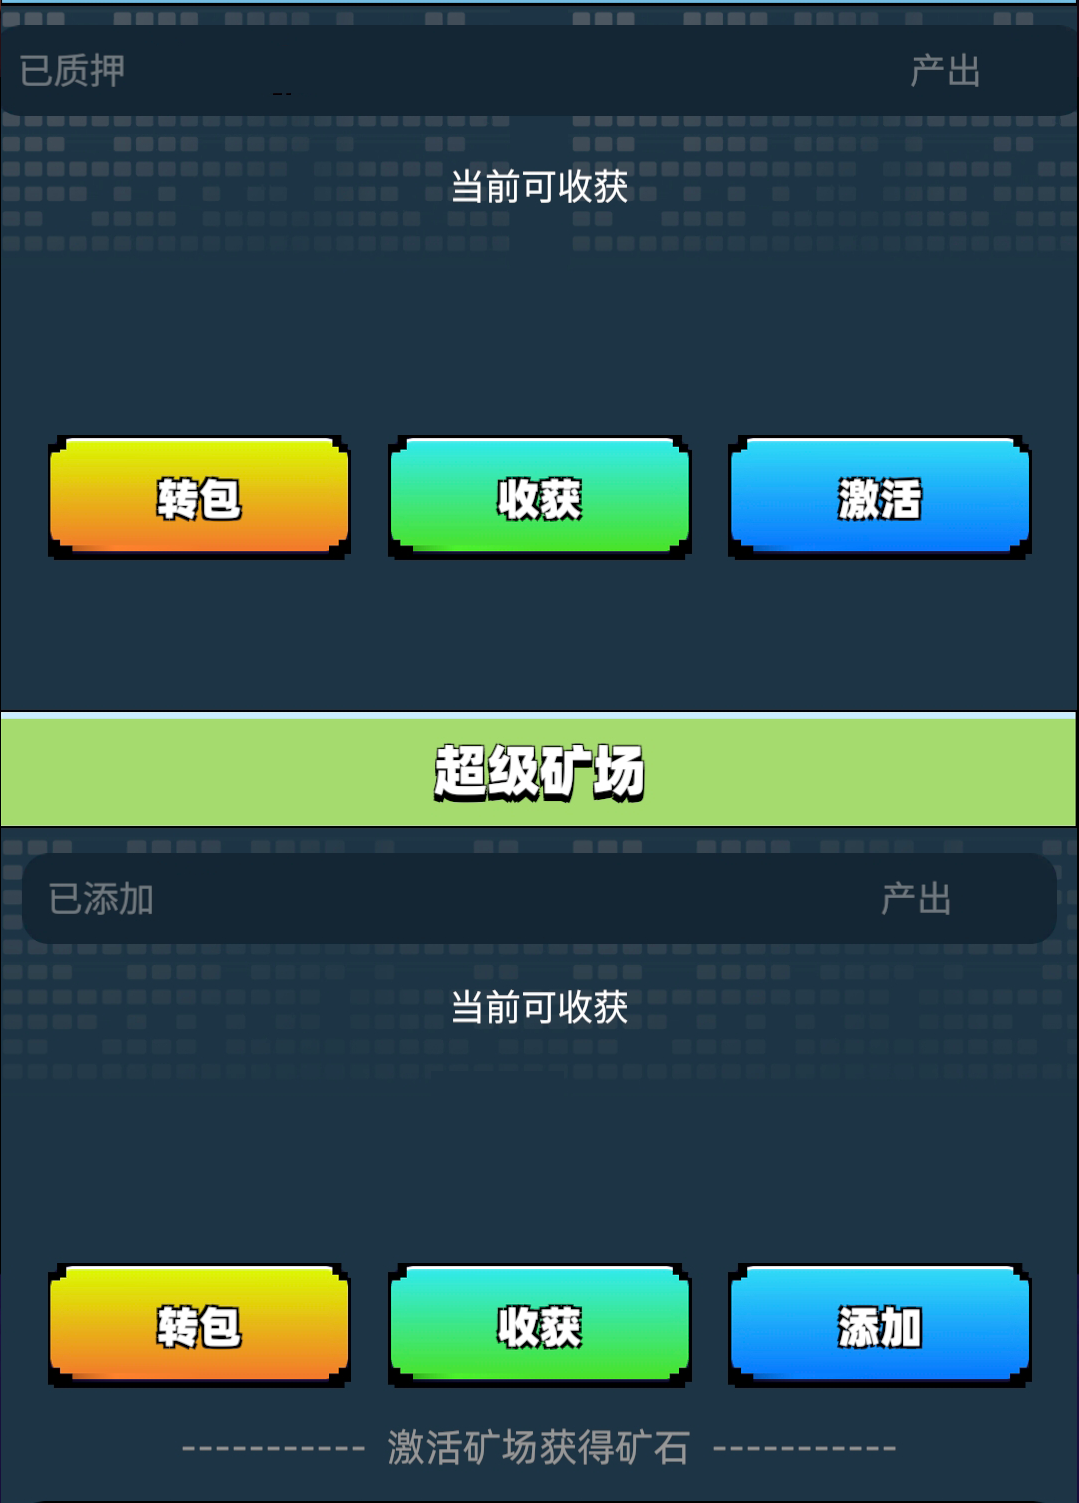
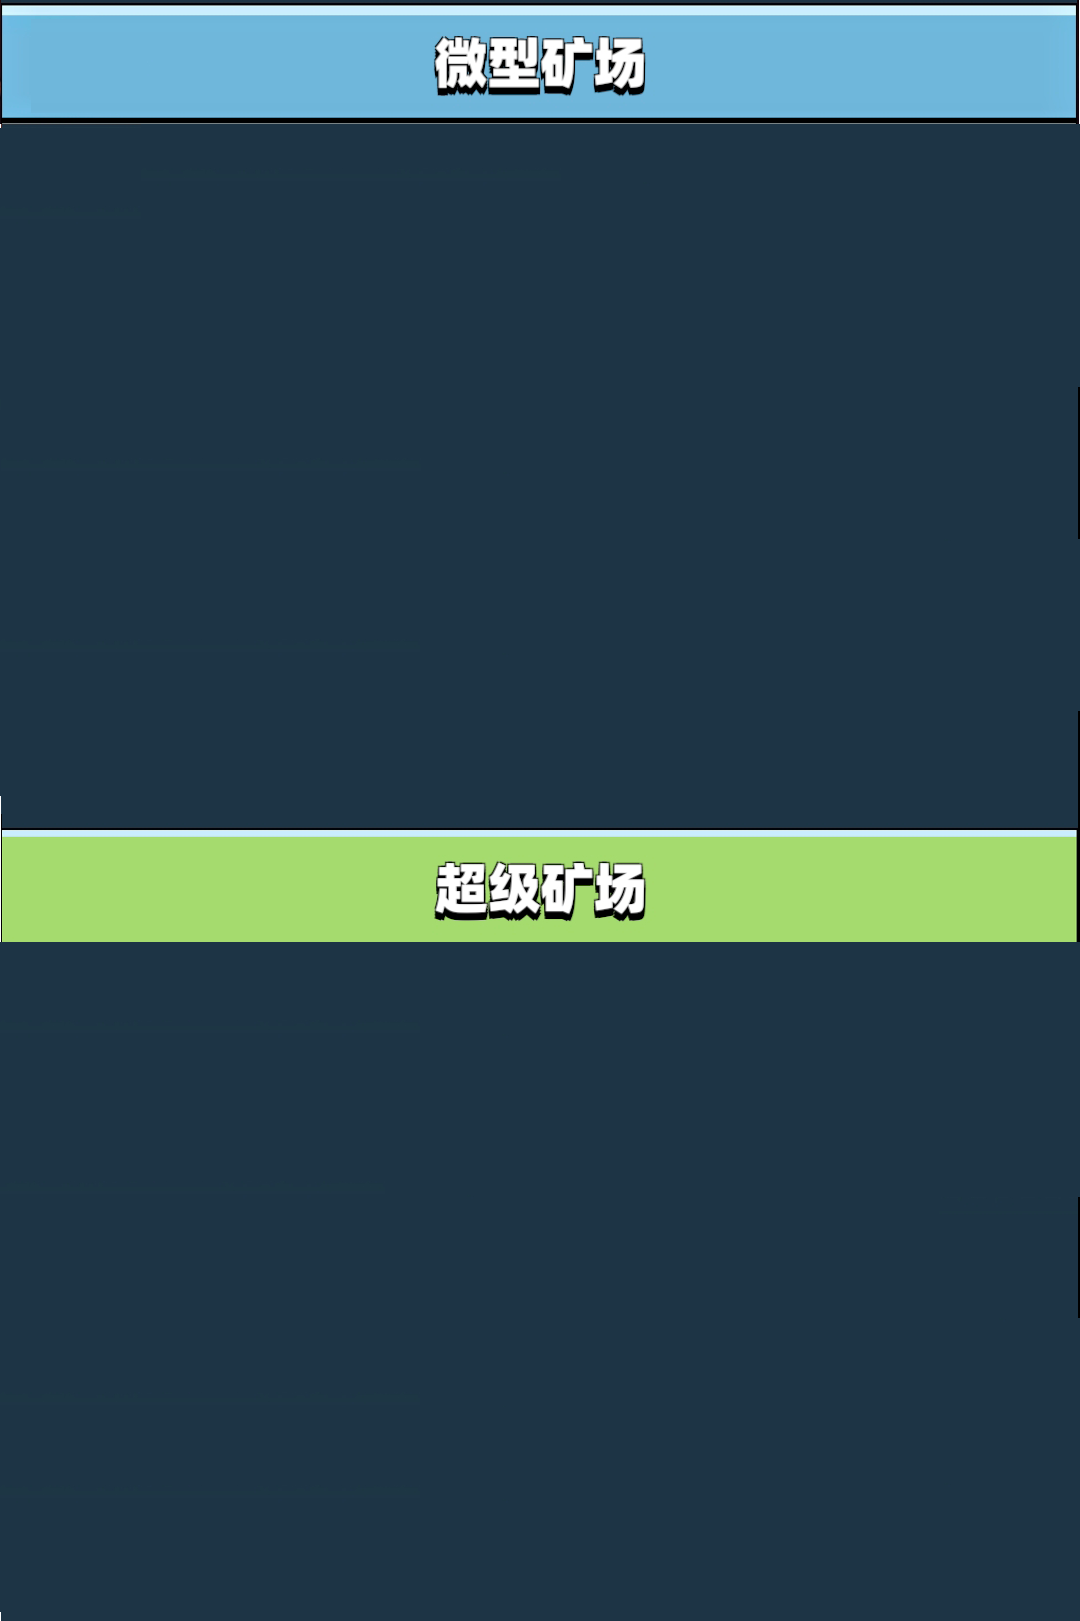
feat: :sparkles: 金刚石图标更换

diff --git a/pages/Mine/Mine.vue b/pages/Mine/Mine.vue
@@ -20,7 +20,62 @@
 			<view class="return" @click="back"></view>
 		</view>
 		<view class="scrollArea">
-			<view class="mineContent"></view>
+			<view class="mineContent">
+				<view class="normalArea">
+					<view class="header2">
+						<view class="left">
+							<text>已添加:</text>
+							<view class="gemImg1"></view>
+							<text>{{0}}</text>
+						</view>
+						<view class="right">
+							<text>产出:</text>
+							<view class="gemImg1"></view>
+							<text>{{0}}</text>
+						</view>
+					</view>
+					<!-- 可收获数量 -->
+					<view class="nowHarvest">
+						<text>当前可收获:</text>
+						<view class="wrap">
+							<view class="gemImg2"></view>
+							<text>{{0}}</text>
+						</view>
+					</view>
+					<!-- 按钮 -->
+					<!-- <view class="transfer"></view> -->
+					<view class="btn harvest">收获</view>
+					<view class="btn add">添加</view>
+				</view>
+				
+				<view class="bigArea">
+					<view class="header2">
+						<view class="left">
+							<text>已添加:</text>
+							<view class="gemImg1"></view>
+							<text>{{0}}</text>
+						</view>
+						<view class="right">
+							<text>产出:</text>
+							<view class="gemImg1"></view>
+							<text>{{0}}</text>
+						</view>
+					</view>
+					<!-- 可收获数量 -->
+					<view class="nowHarvest">
+						<text>当前可收获:</text>
+						<view class="wrap">
+							<view class="gemImg2"></view>
+							<text>{{0}}</text>
+						</view>
+					</view>
+					<!-- 按钮 -->
+					<!-- <view class="transfer"></view> -->
+					<view class="btn harvest">收获</view>
+					<view class="btn add">添加</view>
+				</view>
+			</view>
+			
 			<view class="intro"></view>
 		</view>
 		
@@ -136,23 +191,149 @@
 			z-index: 99;
 			top: 30vh;
 			width: 100%;
-			height: 33vw;
+			height: 20vw;
 			background: url("../../static/mine/mineHeader.png") no-repeat center center / contain;
 		}
 		
 		.scrollArea {
 			position: absolute;
-			top: 46vh;
+			top: 40vh;
 			width: 100%;
-			height: 57vh;
+			height: 61vh;
 			overflow: auto;
 			
 			.mineContent {
 				position: relative;
 				bottom: -1vw;
 				width: 100%;
-				height: 79vh;
+				height: 85vh;
 				background: url("../../static/mine/mineContent.png") no-repeat center center / contain;
+				
+				// 按钮的公共样式
+				.btn {
+					position: absolute;
+					width: 30vw;
+					height: 14vw;
+					line-height: 12vw;
+					font-size: 5vw;
+					font-weight: bold;
+					color: #fff;
+					text-align: center;
+					background:  no-repeat center center / contain;
+				}
+				
+				// 已添加的资源header公共样式
+				.header2 {
+					position: absolute;
+					top: -44vw;
+					display: flex;
+					justify-content: space-between;
+					width: 97%;
+					height: 10vw;
+					background-color: #fff;
+					border-radius: 4vw;
+					box-sizing: border-box;
+					padding: 0 3vw;
+					line-height: 9vw;
+					font-weight: bold;
+					
+					
+					.gemImg1 {
+						width: 7vw;
+						height: 7vw;
+						margin: 0 2vw;
+						background:no-repeat center center / contain;
+					}
+					
+					.gemImg2 {
+						width: 20vw;
+						height: 20vw;
+						background: url('../../static/market/resourceStone.png') no-repeat center center / contain;
+					}
+					
+					.left {
+						display: flex;
+						align-items: center;
+						.gemImg1 {
+							background-image: url('../../static/market/diamond.png');
+						}
+					}
+					
+					.right {
+						display: flex;
+						align-items: center;
+						.gemImg1 {
+							width: 10vw;
+							height: 10vw;
+							background-image: url('../../static/market/resourceStone.png');
+						}
+					}
+				}
+				
+				// 可收获数量的公共样式
+				.nowHarvest {
+					position: absolute;
+					top: -29vw;
+					display: flex;
+					flex-direction: column;
+					justify-content: center;
+			
+					color: #fff;
+					font-weight: bold;
+					
+					
+					.wrap {
+						display: flex;
+						justify-content: space-between;
+						align-items: center;
+						width: 100%;
+						margin-top: 4vw;
+						margin-left: -3.5vw;
+						
+						.gemImg2 {
+							width: 16vw;
+							height: 16vw;
+							background: url('../../static/market/resourceStone.png') no-repeat center center / contain;
+						}
+					}
+				}
+				
+				.normalArea {
+					position: absolute;
+					top: 58vw;
+					display: flex;
+					justify-content: center;
+					width: 100%;
+
+					.harvest {
+						left: 15vw;
+						background-image: url("../../static/mine/btn_Purple.png");
+					}
+					
+					.add {
+						right: 15vw;
+						background-image: url("../../static/mine/btn_Green.png");
+					}
+				}
+				
+				.bigArea {
+					position: absolute;
+					top: 135vw;
+					display: flex;
+					justify-content: center;
+					width: 100%;
+					
+					
+					.harvest {
+						left: 15vw;
+						background-image: url("../../static/mine/btn_Purple.png");
+					}
+					
+					.add {
+						right: 15vw;
+						background-image: url("../../static/mine/btn_Green.png");
+					}
+				}
 			}
 			
 			.intro {
@@ -164,12 +345,12 @@
 		
 		.return {
 			position: absolute;
-			top: 3.5vw;
+			top: 6vw;
 			z-index: 999;
 			left: 3vw;
-			width: 7vw;
-			height: 7vw;
-			background: url("../../static/ground/return.png") no-repeat center center /contain;
+			width: 10vw;
+			height: 10vw;
+			background: url("../../static/mine/return.png") no-repeat center center /contain;
 		}
 	}
 	
@@ -193,21 +374,17 @@
 			transform: scaleX(1);
 		}
 		49.9%{
-			left: 68vw;
 			background-image: url('../../static/mine/spr_run.gif');
-			transform: scaleX(1);
 		}
 		50% {
 			left: 68vw;
 			background-image: url('../../static/mine/spr_axe.gif');
-			transform: scaleX(1);
 		}
 		
 		// 又开始进行挖矿, 方向进行转换
 		50.1% {
 			left: 68vw;
 			background-image: url('../../static/mine/spr_axe.gif');
-			transform: scaleX(1);
 		}
 		69.99% {
 			left: 68vw;
@@ -217,7 +394,6 @@
 		
 		// 开始往回跑
 		70% {
-			left: 68vw;
 			background-image: url('../../static/mine/spr_run.gif');
 			transform: scaleX(-1);
 		}

diff --git a/pages/TradingMarkets/TradingMarkets.vue b/pages/TradingMarkets/TradingMarkets.vue
@@ -238,13 +238,12 @@
 						height: 9vw;
 						background: no-repeat center center / contain;
 						margin-right: 1vw;
-						
 					}
 					
-					&:first-child.gemImg{
-						width: 7vw;
-						height:7vw;
-					}
+					&:first-of-type>.gemImg {
+						width: 7.5vw;
+						height: 7.5vw;
+					}					
 				}
 							
 				.gemItem {

diff --git a/components/buyCellPop.vue b/components/buyCellPop.vue
@@ -69,7 +69,7 @@
           <text>{{ gameInfo.assets[gemName] }}</text>
         </view>
         <view class="premium item">
-          <text>手续费</text>
+          <text>手续费</text> 
           <view
             class="itemImg"
             :style="`background-image: url(${getGemImg('powerStone')});`"

diff --git a/App.vue b/App.vue
@@ -1,7 +1,6 @@
 <script>
 	export default {
 		onLaunch: function() {
-			// uni.hideTabBar()
 			console.log('App Launch')
 		},
 		onShow: function() {

diff --git a/components/activateMine.vue b/components/activateMine.vue
@@ -9,5 +9,5 @@
 </script>
 
 <style lang="less">
-
+	
 </style>
